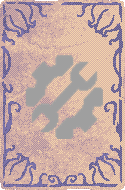
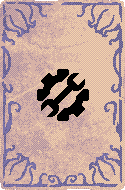
Add files via upload

Changed region(s): [[0.192, 0.2895, 0.84, 0.7368]]

diff --git a/InscryptionExampleMod/Plugin.cs b/InscryptionExampleMod/Plugin.cs
@@ -31,6 +31,7 @@ namespace TribalLibary
         public static Tribe fungusTribe;
         public static Tribe rodentTribe;
         public static Tribe ceromorphTribe;
+        public static Tribe dragonTribe;
 
         public void Awake()
         {
@@ -178,6 +179,15 @@ namespace TribalLibary
                     tribeIcon: TextureHelper.GetImageAsTexture("tribeicon_ceromorph.png"),
                     appearInTribeChoices: true,
                     choiceCardbackTexture: TextureHelper.GetImageAsTexture("card_rewardback_MAGIKS_ceromorph.png")
+                 );
+            }
+            {
+                dragonTribe = TribeManager.Add(
+                    PluginGuid,
+                    "dragon",
+                    tribeIcon: TextureHelper.GetImageAsTexture("tribeicon_dragon.png"),
+                    appearInTribeChoices: true,
+                    choiceCardbackTexture: TextureHelper.GetImageAsTexture("card_rewardback_NATURE_dragon.png")
                  );
             }
         }

diff --git a/InscryptionExampleMod/obj/Release/netstandard2.0/ExampleMod.AssemblyInfo.cs b/InscryptionExampleMod/obj/Release/netstandard2.0/ExampleMod.AssemblyInfo.cs
@@ -14,11 +14,11 @@ using System.Reflection;
 [assembly: System.Reflection.AssemblyCompanyAttribute("TribeLibary")]
 [assembly: System.Reflection.AssemblyConfigurationAttribute("Release")]
 [assembly: System.Reflection.AssemblyDescriptionAttribute("A Libary of Tribes")]
-[assembly: System.Reflection.AssemblyFileVersionAttribute("1.0.0.0")]
-[assembly: System.Reflection.AssemblyInformationalVersionAttribute("1.0.0")]
+[assembly: System.Reflection.AssemblyFileVersionAttribute("1.8.0.0")]
+[assembly: System.Reflection.AssemblyInformationalVersionAttribute("1.8.0")]
 [assembly: System.Reflection.AssemblyProductAttribute("TribeLibary")]
 [assembly: System.Reflection.AssemblyTitleAttribute("TribeLibary")]
-[assembly: System.Reflection.AssemblyVersionAttribute("1.0.0.0")]
+[assembly: System.Reflection.AssemblyVersionAttribute("1.8.0.0")]
 
 // Generated by the MSBuild WriteCodeFragment class.
 

diff --git a/InscryptionExampleMod/obj/Release/netstandard2.0/PluginInfo.cs b/InscryptionExampleMod/obj/Release/netstandard2.0/PluginInfo.cs
@@ -4,6 +4,6 @@ namespace ExampleMod
     {
         public const string PLUGIN_GUID = "TribeLibary";
         public const string PLUGIN_NAME = "TribeLibary";
-        public const string PLUGIN_VERSION = "1.0.0";
+        public const string PLUGIN_VERSION = "1.8.0";
     }
 }
